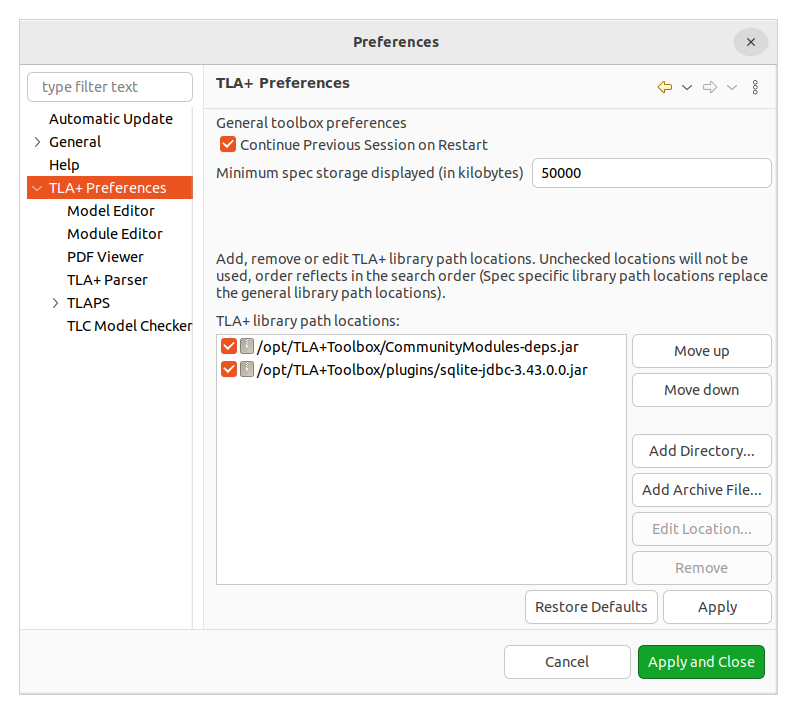
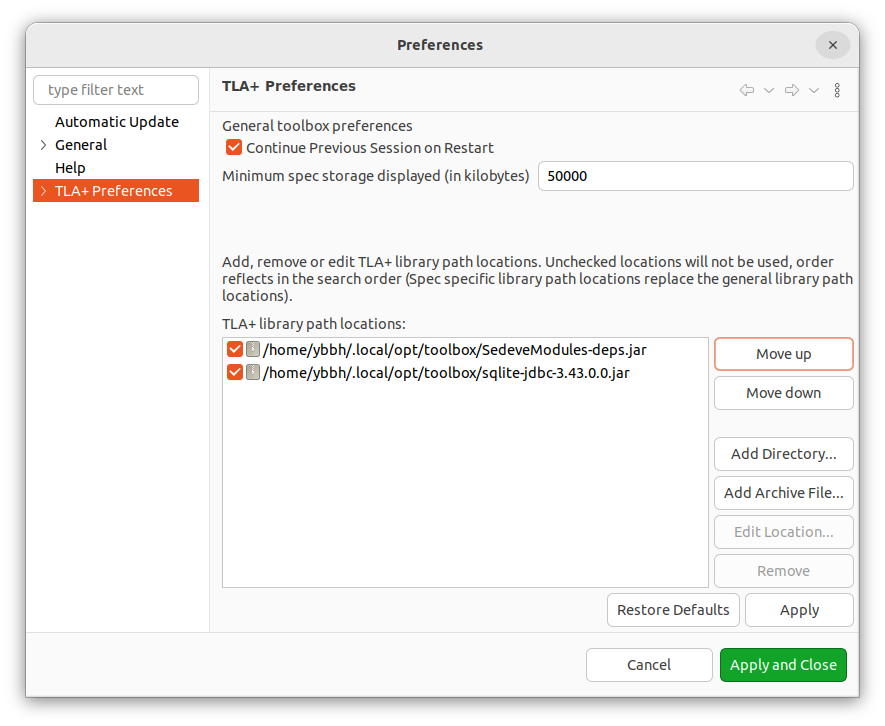
update readme

Changed region(s): [[0.0, 0.0, 0.9937, 0.986], [0.813, 0.0924, 0.9034, 0.1541], [0.271, 0.8011, 0.3011, 0.8319]]

diff --git a/doc/how_to_start.md b/doc/how_to_start.md
@@ -7,16 +7,19 @@ you need to configure the [TLA+ toolbox](https://lamport.azurewebsites.net/tla/t
 
 Follow these steps to set it up:
 
-1. Download the [CommunityModules-dep.jar](https://github.com/scuptio/TLAPlusCommunityModules/releases)
+1. 
+Download the [SedeveModules jar](https://github.com/scuptio/SedeveModules/releases)
 We developed  TLA+ modules 
-[StateDB](https://github.com/scuptio/TLAPlusCommunityModules/blob/master/modules/StateDB.tla), 
-[GenID](https://github.com/scuptio/TLAPlusCommunityModules/blob/master/modules/GenID.tla) .
+[StateDB](https://github.com/scuptio/SedeveModules/blob/master/modules/StateDB.tla), 
+[GenID](https://github.com/scuptio/SedeveModules/blob/master/modules/GenID.tla) .
+
+Download the [SQLite JDBC driver jar](https://github.com/xerial/sqlite-jdbc/releases/download/3.45.3.0/sqlite-jdbc-3.45.3.0.jar)
 
 2. In tla+ toolbox, go to
 
    File -> Preferences -> TLA+ Preference
 
-   Specify TLA+ library path option locations
+   Specify TLA+ library path option of *SedeveModules*,  *SQLite JDBC driver*
 
 <img src="../doc/figure/set_library_path_locations.png" width="50%" height="50%">
 
@@ -26,19 +29,27 @@ In the TLA+ specification, we use
 [InitAction](https://github.com/scuptio/tlaplus-specification/blob/main/spec/action.tla#L187) 
 and 
 [SetAction](https://github.com/scuptio/tlaplus-specification/blob/main/spec/action.tla#L209)
-to specify the action of [I/O automata](doc/model_the_system.md).
+to specify the action of [I/O automata](doc/model_the_system.md) and output the state to sqlite database.
 
-## Run TLA+ model checker and generate state database(a sqlite database).
+
+## Run TLA+ model checker and generate state database(a sqlite file).
 
 1. Filling Model checker setting:
    
    Specify constant value and Temporal formula
 
-2. Click then "Runs TLC on the model" Button
+2. In `Model` -> `TLC Options` Page ->  `Parameters` -> `JVM arguments:` box:
 
-   After the model checker finishes running, navigate to the folder:
-      
-   /_xxxx_/_xxxx_/_xxxx_.toolbox/Model\__xxxx_ 
+   Specify Java property parameter "tlc2.overrides.TLCOverrides" by filling the text,
+
+``` 
+-Dtlc2.overrides.TLCOverrides=tlc2.overrides.TLCOverrides:tlc2.overrides.SedeveTLCOverrides
+```
+
+   The "tlc2.overrides.TLCOverrides" is used by thethe [ComunityModeules](https://github.com/tlaplus/CommunityModules); and "the tlc2.overrides.SedeveTLCOverrides" is used by [SedeveModules](https://github.com/scuptio/SedeveModules/)
+
+3. Click then `Runs TLC on the model` Button
+ 
 
 ## Development by specification
 
@@ -52,67 +63,15 @@ The action types include:
 
 | Action Type	  | Description of Action Type 	                                                                    |
 |---------------|-------------------------------------------------------------------------------------------------|
-| Input Setup   | Set up and initializes the state of a node                                                      |
-| Input Check   | Check the state correctness of a node, used for asserting invariants                            |
-| Input Message | Represent a node receiving an input message, from a network endpoint or a terminal, for example |
+| Input | Represent a node receiving an input message, from a network endpoint or a terminal, for example |
 | Output        | Represent a node sending an output message, to a network endpoint or a terminal, for example    |
 | Internal      | Represent an internal event in a node                                                           |
 
 
-Use the [trace-gen](../src/trace_gen/main.rs) to traversal dot file(like [this dot file](../src/data/toolbox_dump.dot)) 
+Use the [trace-gen](../src/trace_gen/main.rs) to traversal state space
 and dump all trace into a database(e.g., [sqlite DB file](../src/data/trace.db))
 The trace format is represented in JSON, similar to [this JSON file](../src/data/trace2.json)
 The [action incoming interface](../src/player/action_incoming.rs) can be used to read traces.
-
-
-The sedeve_trace_gen's command lines:
-
-``` 
-Usage: sedeve_trace_gen [OPTIONS]
-
-Options:
-  -d, --dot-path <DOT_PATH>
-          Path of the TLA+ output .dot file
-  -s, --state-db-path <STATE_DB_PATH>
-          Path of the state sqlite DB file
-  -o, --out-db-path <OUT_DB_PATH>
-          Type name of the actions
-  -i, --intermediate-db-path <INTERMEDIATE_DB_PATH>
-          Type intermediate database path
-  -m, --map-const-path <MAP_CONST_PATH>
-          Path of the json file stores the constant value map
-  -r, --remove-intermediate
-          Remove the intermediate table that records TLA+ actions and trace paths after generating the trace
-  -e, --setup-initialize-state
-          Generate setup initialize state trace, default value is false
-  -h, --help
-          Print help
-  -V, --version
-          Print version
-```
-
-`-map-const-path` parameter can be used to specify a JSON file that maps TLA+ constant values to code primitive types in the source code.
-
-A example JSON file can be like:
-
-```
-{
-    "A_n1" : 1,
-    "A_n2" : 2,
-    "x" : 1000
-}
-```
-
-The following command lines parse [toolbox_dump.dot](../src/data/toolbox_dump.dot) and generate output trace to [trace.db](../src/data/trace.db)
-
-
-```
-[PREFIX]/target/debug/trace_gen  \
-  --state-db-path [state_db_file_path] \
-  --out-db-path [output_db_file_path] \
-  --intermediate-db-path [intermediate_db_file_path] \
-  --map-const-path  [PREFIX]/const_map/2pc_map_const.json
-```
 
 
 ### Insert *anchor action*s to the testing source code
@@ -127,74 +86,6 @@ The physical system will align with the logical model, ensuring consistency.
 Our framework incorporates various macros to facilitate the implementation of *anchor actions* 
 that verify the coherence between our source-level implementation and abstract-level design.
 
-
-The *anchor actions* include server macros:
-
-- *auto_init*:  Enable an automata
-
-- *auto_clear*:  Clear an automata
-
-- *action_begin*:  Begin an action
-
-- *action_end*: End an action 
-
-- *setup_begin* : Begin a Setup action
-
-- *setup_end* :  End a Setup action
-
-- *setup*:  The same as *setup_end*
-
-- *setup_begin* : Begin a Check action
-
-- *setup_end* :  End a Check action
-
-- *check*:  The same as *check_end*
-
-- *input_begin* : Begin an Input action
-
-- *input_end* :  End an Input action
-
-- *input*:  The same as *input_end*
-
-- *output_begin* : Begin an Output action
-
-- *output_end* : End an Output action
-
-- *output*:  The same as *output_begin*
-
-- *internal_begin* : Begin an Internal action
-
-- *internal_end* : End an Internal action
-
-These macros are defined in [automata.rs](../src/player/automata).
-
-An example using *anchor actions* could be found in [test_dtm_player.rs](../src/player/test_dtm_player.rs).
-
-
-
-
-### Generate code stubs from Action DSL
-
-To simplify development, we have created a tool set that automatically generates Rust code.
-This tool set includes an Action language and a command-line tool.
-The Action language is a domain-specific language (DSL) defined by [grammar.js](../src/tree-sitter-action/grammar.js)
-It is used to guide the generation of Rust code for specification-driven testing. 
-The *Action* can be written in TLA+ specification files and are enclosed in comments marked by **(\*@Begin@** and **@End@\*)** .
-The [rust-gen](../src/rust_gen/bin/main.rs) tool can read automata definitions from *Action*s and generate Rust code
-stubs.
-
-Here is the rust_gen command line:
-
-```
-Usage: rust_gen [OPTIONS] --action-path <ACTION_PATH>
-
-Options:
-  -a, --action-path <ACTION_PATH>  .action or .tla+ file path
-  -o, --output-path <OUTPUT_PATH>  output rust code file path
-  -h, --help                       Print help
-  -V, --version                    Print version
-
-```
 
 
 ### Implement the Rust code
